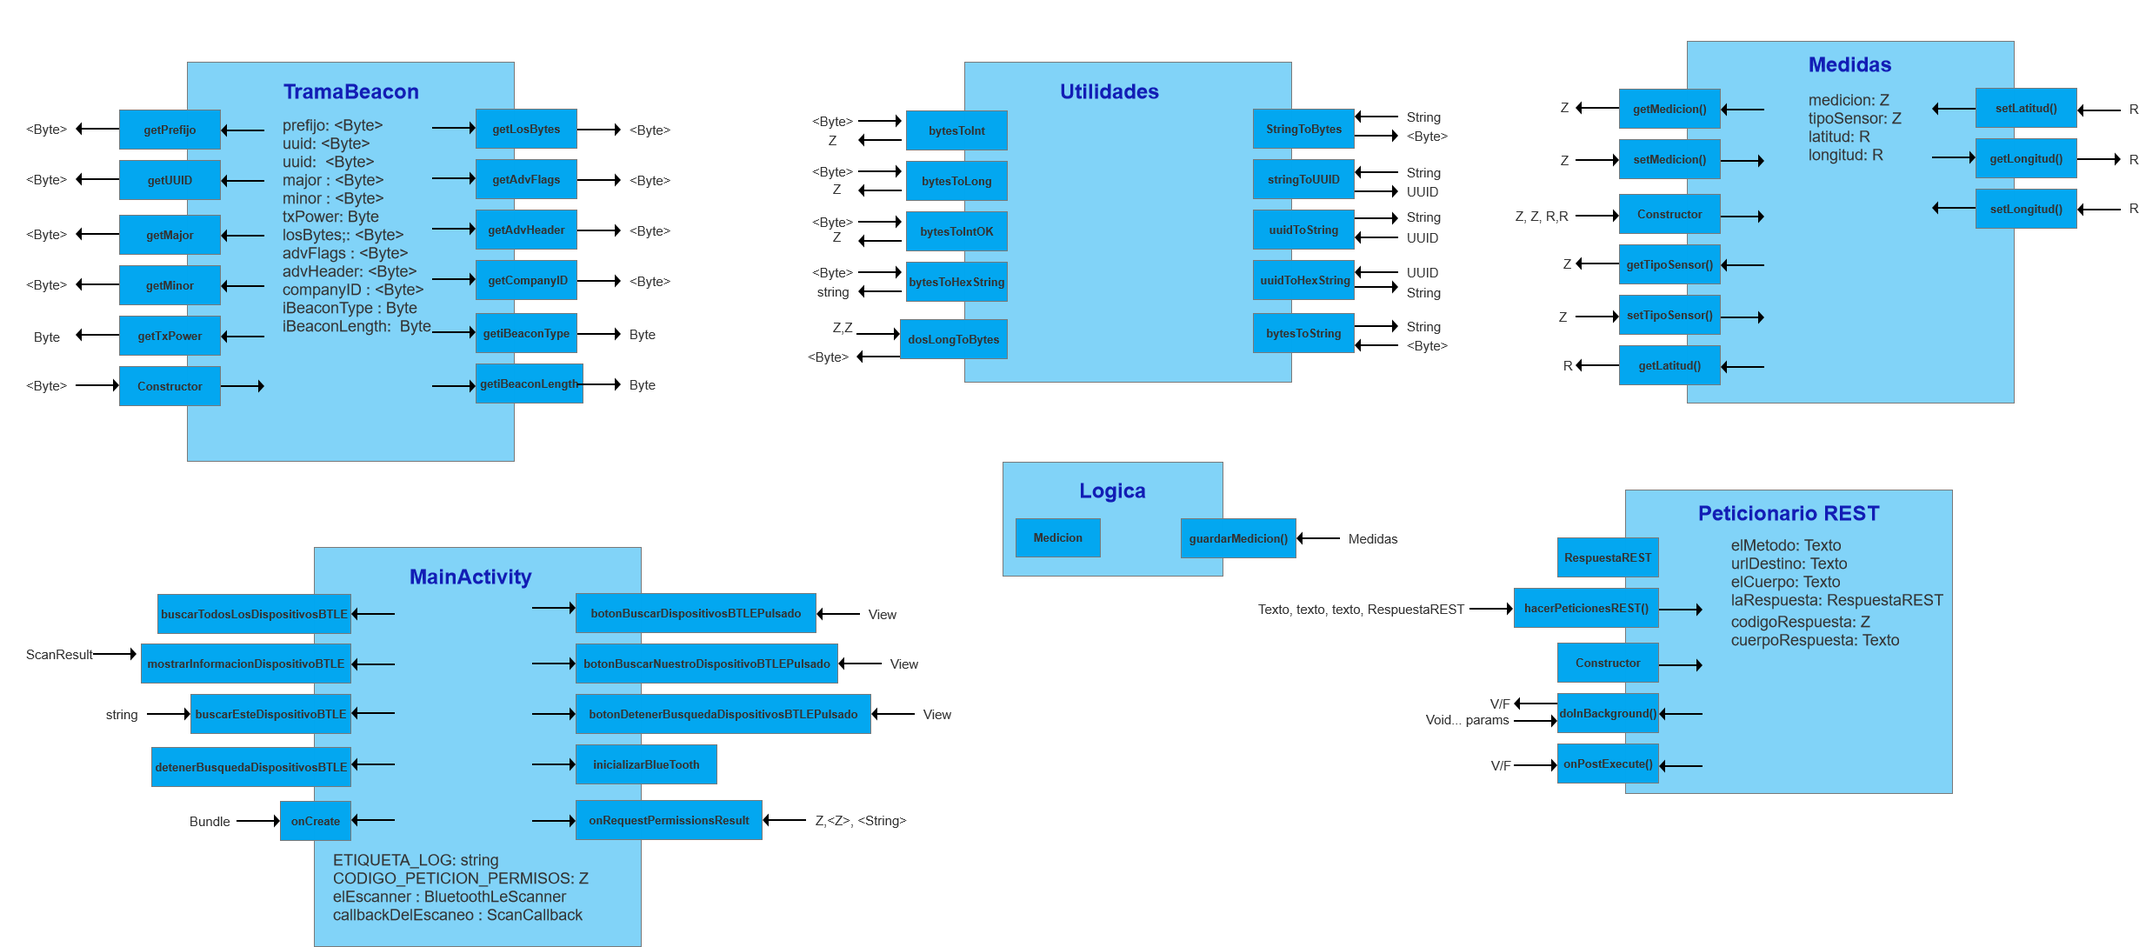
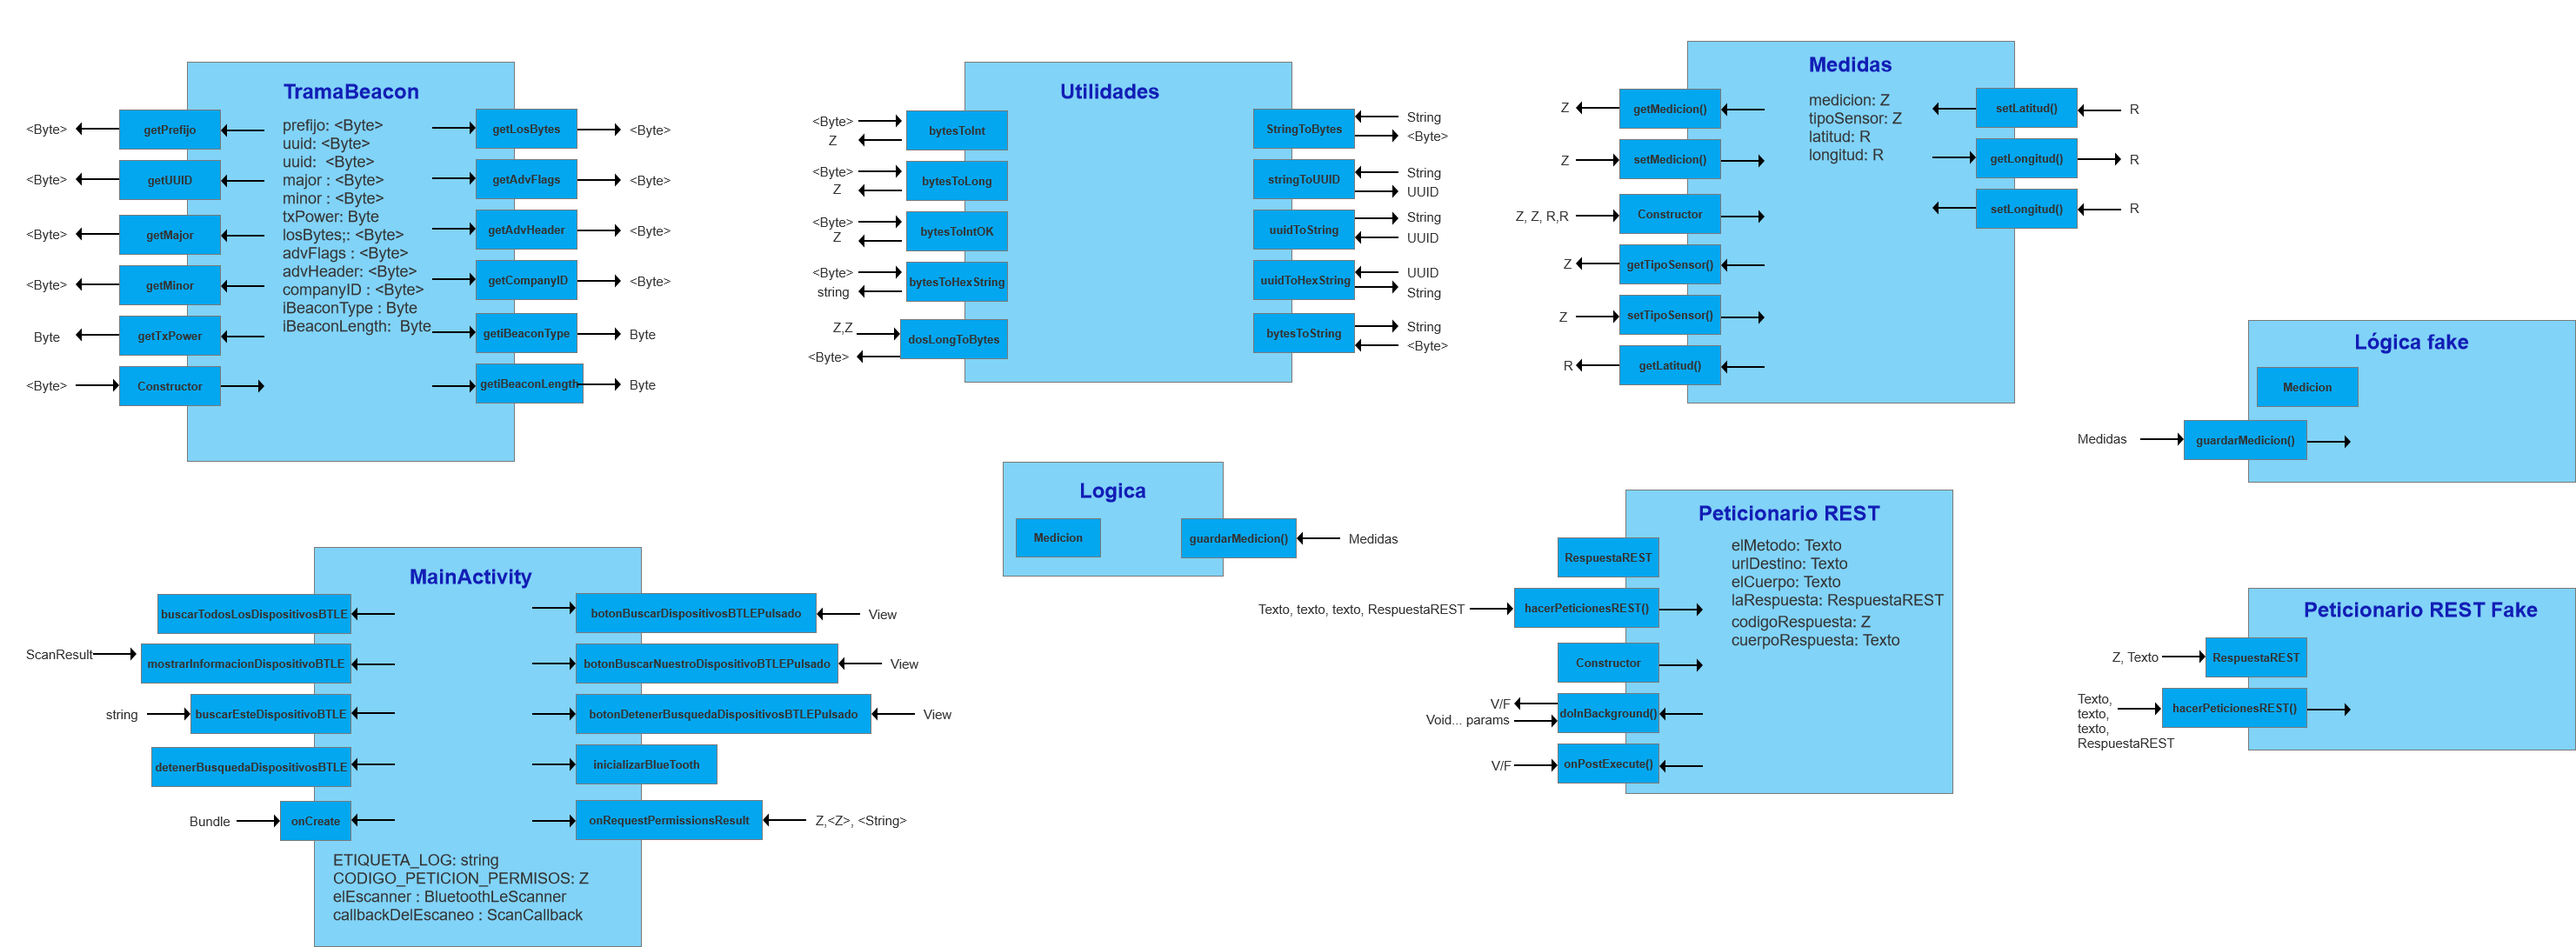
Logica fake definitiva
Diseños y cambios logica fake, funciona

diff --git a/src/app/src/main/java/com/example/biometria3a/MainActivity.java b/src/app/src/main/java/com/example/biometria3a/MainActivity.java
@@ -634,17 +634,17 @@ public class MainActivity extends AppCompatActivity {
     // --------------------------------------------------------------
     // --------------------------------------------------------------
 
-    @Override
+
     // Bundle -> onCreate() ->
     // Se ejecuta al principio de la aplicación para inicializar la actividad. Se obtiene el TextView y se inicializa el bluetooth
+    @Override
     protected void onCreate(Bundle savedInstanceState) {
         super.onCreate(savedInstanceState);
         setContentView(R.layout.activity_main); // Establece el layout de la actividad
 
-// Inicializa el TextView 
+        // Inicializa el TextView
         textViewDispositivos = findViewById(R.id.dispositivoBtle); // Obtener el TextView por su ID
         dispositivosEncontrados = new StringBuilder(); // Inicializar el StringBuilder
-
 
         mandarPost = findViewById(R.id.mandarPost); // Obtener el botón por su ID
         mandarPost.setOnClickListener(new View.OnClickListener() { // Listener para el botón de enviar POST
@@ -653,14 +653,23 @@ public class MainActivity extends AppCompatActivity {
                 boton_enviar_pulsado_client(v);  // Llamar al método de enviar POST
             }
         });
-        Log.d(ETIQUETA_LOG, " onCreate(): empieza ");
+        Log.d(ETIQUETA_LOG, "onCreate(): empieza");
         inicializarBlueTooth();
-        Log.d(ETIQUETA_LOG, " onCreate(): termina ");
+        Log.d(ETIQUETA_LOG, "onCreate(): termina");
 
-        // Llamar a la función hacerPeticionFake
-        hacerPeticionFake();
-    } // onCreate()
+        // Inicializamos la lógica fake
+        LogicaFake logicaFake = new LogicaFake();
 
+        // Aquí podrías crear un objeto Medidas con datos de ejemplo
+        Medidas medicionEjemplo = new Medidas();
+        medicionEjemplo.setMedicion(Integer.parseInt("123"));
+        medicionEjemplo.setTipoSensor(3);
+        medicionEjemplo.setLatitud(Double.parseDouble("12.34"));
+        medicionEjemplo.setLongitud(Double.parseDouble("56.78"));
+
+        // Llamamos al método guardarMedicion de la lógica fake
+        logicaFake.guardarMedicion(medicionEjemplo);
+    }
     // --------------------------------------------------------------
     // --------------------------------------------------------------
     @Override

diff --git a/src/app/src/main/java/com/example/biometria3a/LogicaFake.java b/src/app/src/main/java/com/example/biometria3a/LogicaFake.java
@@ -1,0 +1,23 @@
+package com.example.biometria3a;
+
+import android.util.Log;
+
+// La clase lógica se encarga de gestionar la lógica de la aplicación
+// Esta versión simula el guardado de las mediciones sin realmente interactuar con un servidor
+public class LogicaFake {
+    private Object Medicion;
+
+    // Método que simula guardar una medición
+    // Medidas -> guardarMedicion() ->
+    public void guardarMedicion(Medidas medicion) {
+
+        Log.d("test", "Simulación: entra a guardar medicion");
+
+        // Simulamos la creación de un objeto JSON con los datos de la medición
+        String textoJSON = "{\"Medicion\":\"" + medicion.getMedicion() + "\", \"TipoSensor\":\"" + medicion.getTipoSensor() + "\", \"Latitud\":\"" + medicion.getLatitud() + "\", \"Longitud\":\"" + medicion.getLongitud() + "\"}";
+        Log.d("JSON", "Simulación de JSON: " + textoJSON);
+
+        // En lugar de hacer una petición REST, simplemente simulamos la respuesta
+        Log.d("test", "Simulación: Se ha insertado correctamente (sin conexión real)");
+    }
+}

diff --git a/src/app/src/main/java/com/example/biometria3a/Medidas.java b/src/app/src/main/java/com/example/biometria3a/Medidas.java
@@ -7,6 +7,9 @@ public class Medidas {
     private double latitud;  // Latitud de la ubicacion donde se realizo la medicion
     private double longitud;  // Longitud de la ubicacion donde se realizo la medicion
 
+    public Medidas() {
+    }
+
     // Getters y Setters
     // getMedicion: Obtiene el valor de la medicion
     // -> getMedicion() -> int
